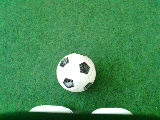
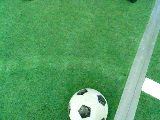
latest version and detection images

diff --git a/robot.py b/robot.py
@@ -39,8 +39,9 @@ if not os.path.exists(detection_img_path):
 offline_pic = "./output_raw/170.png"
 
 MIN_X_DIST_TOP_CAM = 0.3
-MIN_X_DIST_BOT_CAM = 0.15
-DIST_FAC = 0.6
+MIN_X_DIST_BOT_CAM = 0.20
+DIST_FAC_TOP_CAM = 0.6
+DIST_FAC_BOT_CAM = 1
 
 def store_detection_img(in_img, res, num):
     x_ext = int(res["size"] / 2)
@@ -68,9 +69,6 @@ class DetectionResult:
         self.found = data['found']
         self.x = (IMAGE_WIDTH // 2 - data['x']) * -1
         self.y = (IMAGE_HEIGHT // 2 - data['y'])
-
-        if abs(self.x) > IMAGE_WIDTH * (7 / 8) and abs(self.y) > IMAGE_HEIGHT * (7 / 8):
-            self.found = False
 
         # output coordinate system:
         # --------------
@@ -104,8 +102,8 @@ class Camera:
             resolution = 0  # 320x240
             colorSpace = 11  # RGB
 
-            self.camProxy.setParameter(0, 22, 3)
-            self.camProxy.setParameter(1, 22, 3)
+            # self.camProxy.setParameter(0, 22, 3)
+            # self.camProxy.setParameter(1, 22, 3)
 
             self.unsub()
             self.videoClient = self.camProxy.subscribe(
@@ -201,8 +199,8 @@ class Robot:
         # Get current robot to cam transformation
         if self.online:
             transform = self.motionProxy.getTransform(currentCamera, 2, True)
-            with open('motionProxyTransform_' + currentCamera + '.pickle', 'wb') as f:
-                pickle.dump(transform, f, protocol=pickle.HIGHEST_PROTOCOL)
+            # with open('motionProxyTransform_' + currentCamera + '.pickle', 'wb') as f:
+            #     pickle.dump(transform, f, protocol=pickle.HIGHEST_PROTOCOL)
         else:
             with open('motionProxyTransform_' + currentCamera + '.pickle', "rb") as f:
                 transform = pickle.load(f)
@@ -259,7 +257,7 @@ class Robot:
         rob.motionProxy.setFootStepsWithSpeed(["LLeg"], foot_steps, fractionMaxSpeed, False)
         rob.motionProxy.waitUntilMoveIsFinished()
 
-        self.tts.say("Kick!")
+        self.tts.post.say("Kick!")
 
         # KICK!
         foot_steps = [[1, 0, 0]]
@@ -299,7 +297,7 @@ class Robot:
         start = time.time()
         dec = self.cam.detect()
         if dec is None:
-            return False, None, None, None
+            return False, None, np.zeros(2), None
 
         (x, y, _), theta, y_angle = self.get_coords_nao_space_manual(dec)
 
@@ -333,40 +331,33 @@ class Robot:
         else:
             return True, x, move_vel, dist
 
-    def correct_move_to_ball(self, min_x_dist=0., detect_on_the_move=False):
+    def correct_move_to_ball(self, min_x_dist=0., dist_fac=0.5, detect_on_the_move=False):
         move_vel = np.zeros(2)
         close = False
         not_detected_count = 0
         while True:
             # move half distance to the ball
             ball_found, x_dist, move_vel, dist_estimate_to_final_pos = self.move_to_ball(
-                dist_fac=DIST_FAC, x_offset=min_x_dist, old_move_vel=move_vel if not close else np.zeros(2))
+                dist_fac=dist_fac, x_offset=min_x_dist, old_move_vel=move_vel if not close else np.zeros(2))
 
             if not ball_found:
                 not_detected_count += 1
                 print("No ball detected. Not_detected_count: ", not_detected_count, "Move active: ", self.motionProxy.moveIsActive())
+                self.tts.say("Lost the ball")
 
                 if not_detected_count >= 3 or not self.motionProxy.moveIsActive():
-                    print("No ball detected for 3 times. Checking with head")
-                    self.motionProxy.waitUntilMoveIsFinished()
-                    if not self.move_head_until_detection():
-                        print("No ball detected after moving head")
-                        return False
-                    else:
-                        not_detected_count = 0
+                    print("No ball detected for 3 times or not moving")
+                    return False
             else:
                 not_detected_count = 0
 
-            if close:
-                self.motionProxy.waitUntilMoveIsFinished()
-            elif not detect_on_the_move and dist_estimate_to_final_pos < 0.15:
-                self.motionProxy.stopMove()
-                print("Close to final position. Going into save mode")
-                close = True
-                continue
-
-            if detect_on_the_move:
-                time.sleep(0.25)
+            # if close:
+            #     self.motionProxy.waitUntilMoveIsFinished()
+            # elif not detect_on_the_move and dist_estimate_to_final_pos < 0.05:
+            #     self.motionProxy.stopMove()
+            #     print("Close to final position. Going into save mode")
+            #     close = True
+            #     continue
 
             print("Dist to ball:", x_dist, "Dist Thresh:", min_x_dist + 0.05)
             if x_dist is not None and x_dist <= min_x_dist + 0.05:
@@ -386,21 +377,20 @@ class Robot:
             # move to the ball until no one is recognized anymore or reach position
             print("start to move to the ball (top camera)")
             self.cam.set_camera("CameraTop")
-            self.correct_move_to_ball(min_x_dist=MIN_X_DIST_TOP_CAM, detect_on_the_move=True)
+            self.correct_move_to_ball(min_x_dist=MIN_X_DIST_TOP_CAM, dist_fac=DIST_FAC_TOP_CAM, detect_on_the_move=True)
 
             # move head to absolut start position (20 grad)
             rob.motionProxy.angleInterpolationWithSpeed(
-                "HeadPitch", np.deg2rad(20), 0.5)
+                "HeadPitch", np.deg2rad(20), 1)
 
         self.cam.set_camera("CameraBottom")
 
         # Fine adjust for final position
         print("Start to move to the ball (bottom camera)")
-        reached_position_bottom_cam = self.correct_move_to_ball(min_x_dist=MIN_X_DIST_BOT_CAM)
+        reached_position_bottom_cam = self.correct_move_to_ball(min_x_dist=MIN_X_DIST_BOT_CAM, dist_fac=DIST_FAC_BOT_CAM)
         if reached_position_bottom_cam:
             # reached the ball
             print("Standing in front of the ball")
-            self.motionProxy.waitUntilMoveIsFinished()
             self.kick()
         else:
             # lost the ball on the way

diff --git a/server/analyse_server.py b/server/analyse_server.py
@@ -37,6 +37,7 @@ def generate_json_response(found, x=0, y=0, w=0, h=0):
 def check_color(area):
     """
     check if the area is a color"""
+    return True
     a = area.mean(axis=(0, 1)).std() < 15
     return a
 
@@ -45,11 +46,11 @@ def check_color(area):
 def process_json():
     img = base64_to_pil(request.data)
 
-    img.save("./test.png")
+    img.save("test.png")
 
     img_data = np.asarray(img)
     # call nn model
-    results = model([img], size=120, augment=True)
+    results = model([img], size=240, augment=True)
     # get json format of model output
     json_outputs = json.loads(
         results.pandas().xyxy[0].to_json(orient="records"))

diff --git a/test_client.py b/test_client.py
@@ -17,7 +17,8 @@ def pil_to_base64(pil_img):
 
     return im_b64
 
-img = Image.open("./output_raw/78.png")
+img = Image.open("./detection_cur.png")
+
 bim = pil_to_base64(img)
 
 print("TYPPEE", type(bim))
